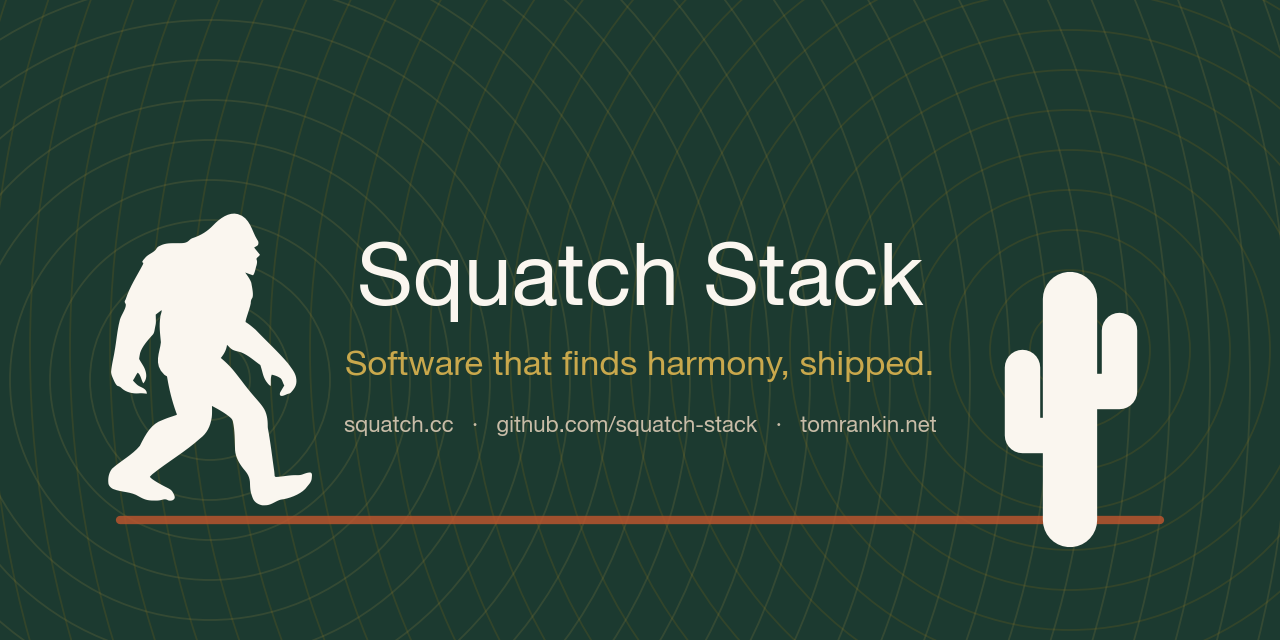
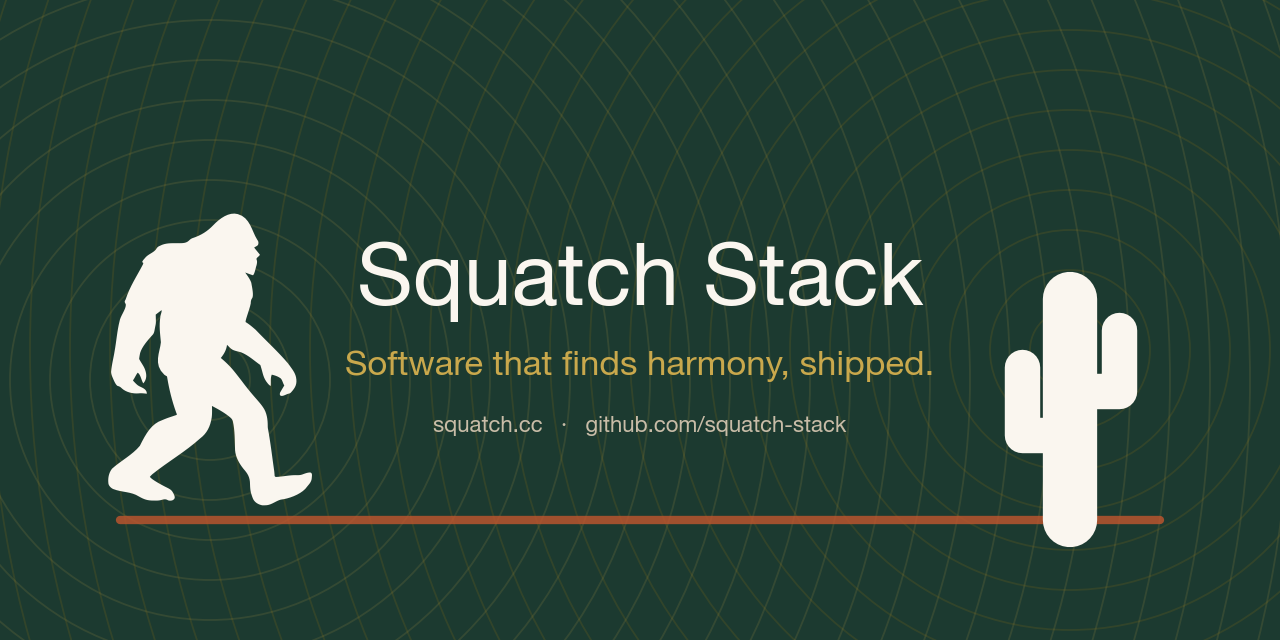
Identity: the brand is the author
Scrub personal-name references everywhere: LICENSE licensor and
CITATION.cff author are now Squatch CC (the studio's operating
identity); the capture provenance line credits the studio's own scan;
brand-card link lines and palette notes drop the personal site; the
profile's Elsewhere section is studio-only. Social cards regenerated.

Changed region(s): [[0.25, 0.6562, 0.75, 0.6875]]

diff --git a/assets/make_brand.py b/assets/make_brand.py
@@ -8,8 +8,8 @@ repo actually encodes. Palette bridges the family sites:
 
     deep forest  #274f42   (squatch.cc ground)
     gold rings   #C9A84C / #B8860B (squatch.cc resonance field)
-    warm cream   #FAF6EF   (squatch.cc paper)
-    desert rust  #C2562E   (squatch.cc accent)
+    warm cream   #FAF6EF   (desert paper)
+    desert rust  #C2562E   (desert accent)
 
 Outputs: logo.svg, logo-512.png, logo-1024.png, social-preview.png.
 Run: python assets/make_brand.py
@@ -159,8 +159,8 @@ def render_social(path):
     ax.text(592, 152, "squatch-stack/hdc-holo",
             fontsize=18, color=CREAM, alpha=0.9,
             fontfamily="Menlo")
-    ax.text(592, 96, "FSL-1.1, converting to Apache-2.0   ·   squatch.cc"
-            "   ·   squatch.cc", fontsize=15, color=GOLD_DIM,
+    ax.text(592, 96, "FSL-1.1, converting to Apache-2.0   ·   "
+            "squatch.cc", fontsize=15, color=GOLD_DIM,
             fontfamily="Helvetica Neue")
     fig.savefig(path, dpi=100)
     plt.close(fig)
@@ -425,8 +425,8 @@ def render_profile_social(path):
     ax.text(640, 375, "Software that finds harmony, shipped.",
             fontsize=25, color=GOLD, fontfamily="Helvetica Neue",
             ha="center")
-    ax.text(640, 432, "squatch.cc   ·   github.com/squatch-stack   ·   "
-            "squatch.cc", fontsize=16, color=SAND,
+    ax.text(640, 432, "squatch.cc   ·   github.com/squatch-stack",
+            fontsize=16, color=SAND,
             fontfamily="Helvetica Neue", ha="center")
     fig.savefig(path)
     plt.close(fig)

diff --git a/README.md b/README.md
@@ -77,7 +77,7 @@ compose. Figures land in `results/`.
 
 `holo/capture.py` (driven by `run_real_scene.py`) runs the whole stack
 on real captures — Tanks &
-Temples "train" (`.splat`) and the Tucson saguaro scan from squatch.cc
+Temples "train" (`.splat`) and the studio's own Tucson saguaro scan
 (`.spz` v2; parser verified byte-for-byte against nianticlabs/spz):
 ~519k splats, mass-centered crop, four scale bands x chunked cells x
 mixture codebooks (reach follows each band's scale cap — the xfine

diff --git a/LICENSE.md b/LICENSE.md
@@ -6,7 +6,7 @@ FSL-1.1-ALv2
 
 ## Notice
 
-Copyright 2026 Thomas Rankin
+Copyright 2026 Squatch CC
 
 ## Terms and Conditions
 
